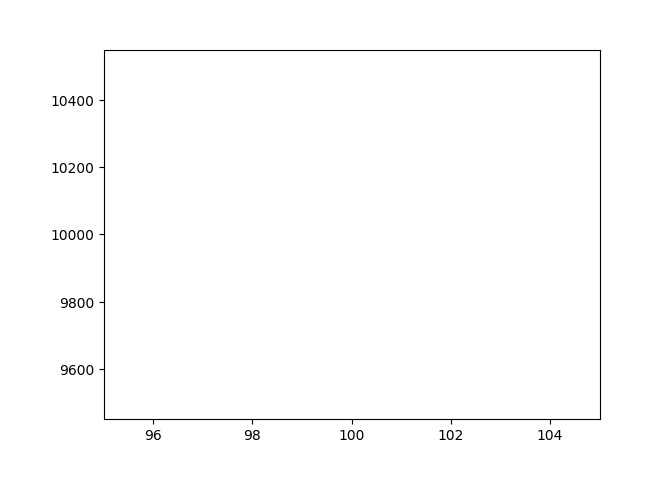
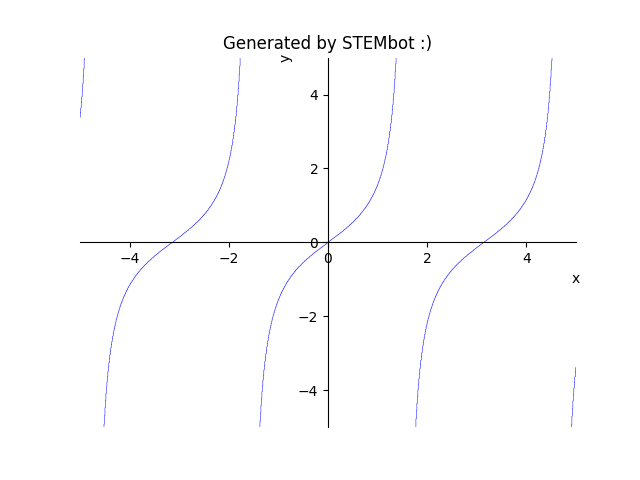
graphing working

diff --git a/modules/math_general.py b/modules/math_general.py
@@ -1,9 +1,9 @@
 import math
-import re
-import numpy as np
+import os
+from sympy.plotting import plot_implicit
+from sympy.parsing.sympy_parser import parse_expr
 import quantities as q
 from quantulum3 import parser
-import matplotlib.pyplot as plt
 from simpleeval import simple_eval, NumberTooHigh, InvalidExpression
 from utils.cache import gen_cache_name
 from utils.mathutils import get_units
@@ -58,31 +58,14 @@ async def evaluate(expression):
         ret = "Something went wrong!"
     return ret
 
-whitelist = ["sin", "cos", "tan", "sqrt", "x"]
-replace = {
-    "sin": "math.sin",
-    "cos": "math.cos",
-    "tan": "math.tan",
-    "sqrt": "math.sqrt",
-    "^": "**"
-}
-
 def graph(expression):
-    for word in re.findall('[a-zA-Z_]+', expression):
-        if word not in whitelist:
-            return f"Something went wrong! `{word}` cannot be used in an expression!"
-    for fro, to in replace.items():
-        expression.replace(fro, to)
-    def f(x):
-        return eval(expression)
-    x = np.linspace(100, 100, 250)
-    plt.plot(x, f(x))
-    plt.xlim(100, 100)
-
+    l, r = expression.replace("^", "**").split("=")
+    l, r = l.strip(), r.strip()
+    plot = plot_implicit(parse_expr(l) - parse_expr(r), show=False)
+    plot.title = "Generated by STEMbot :)"
     im_id = "test"#gen_cache_name()
     path = f'../caches/graphs/{im_id}.png'
-    plt.savefig(path, bbox_inches='tight', pad_inches=0.5)
-    plt.close()
+    plot.save(path)
     return path
 
-print(graph("x**2"))
+print(graph("y = tan(x)"))
